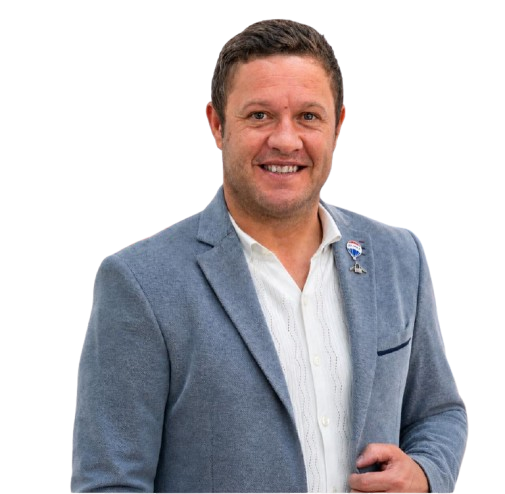
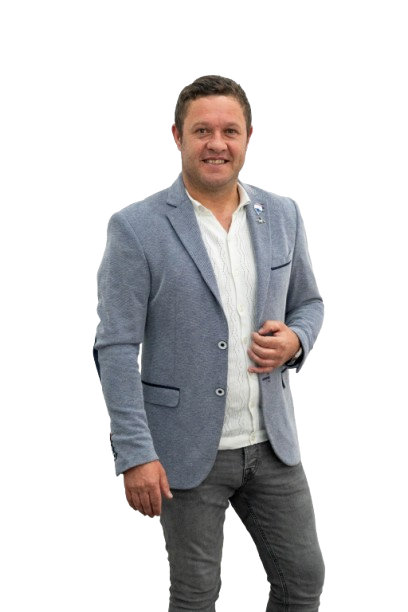
Add files via upload

diff --git a/src/components/Hero.tsx b/src/components/Hero.tsx
@@ -196,10 +196,10 @@ export default function Hero() {
           .hero-text-col h1 { font-size: 1.8rem !important; margin-bottom: 16px !important; }
           .hero-text-col p { font-size: 0.9rem !important; margin-left: auto; margin-right: auto; margin-bottom: 16px !important; }
           .hero-logo-overlap { 
-            left: 50% !important; 
-            transform: translateX(-50%) !important;
-            bottom: -30px !important; 
+            left: -30px !important; 
+            bottom: -40px !important; 
             z-index: 50 !important;
+            transform: none !important;
           }
           .hero-logo-img { 
             width: clamp(240px, 65vw, 320px) !important;

diff --git a/src/components/Autoridade.tsx b/src/components/Autoridade.tsx
@@ -25,9 +25,9 @@ export default function Autoridade() {
   return (
     <section ref={ref} id="autoridade" style={{ background: '#F5F5F0', position: 'relative', overflow: 'hidden', padding: '0' }}>
 
-      {/* Watermark "A" */}
+      {/* Watermark "J" */}
       <div style={{ position: 'absolute', inset: 0, display: 'flex', alignItems: 'center', justifyContent: 'center', pointerEvents: 'none', overflow: 'hidden' }} aria-hidden="true">
-        <span className="watermark-am" style={{ color: '#0033A0' }}>A</span>
+        <span className="watermark-am" style={{ color: '#0033A0' }}>J</span>
       </div>
 
       <div className="lines-pattern" style={{ position: 'absolute', inset: 0, pointerEvents: 'none' }} />